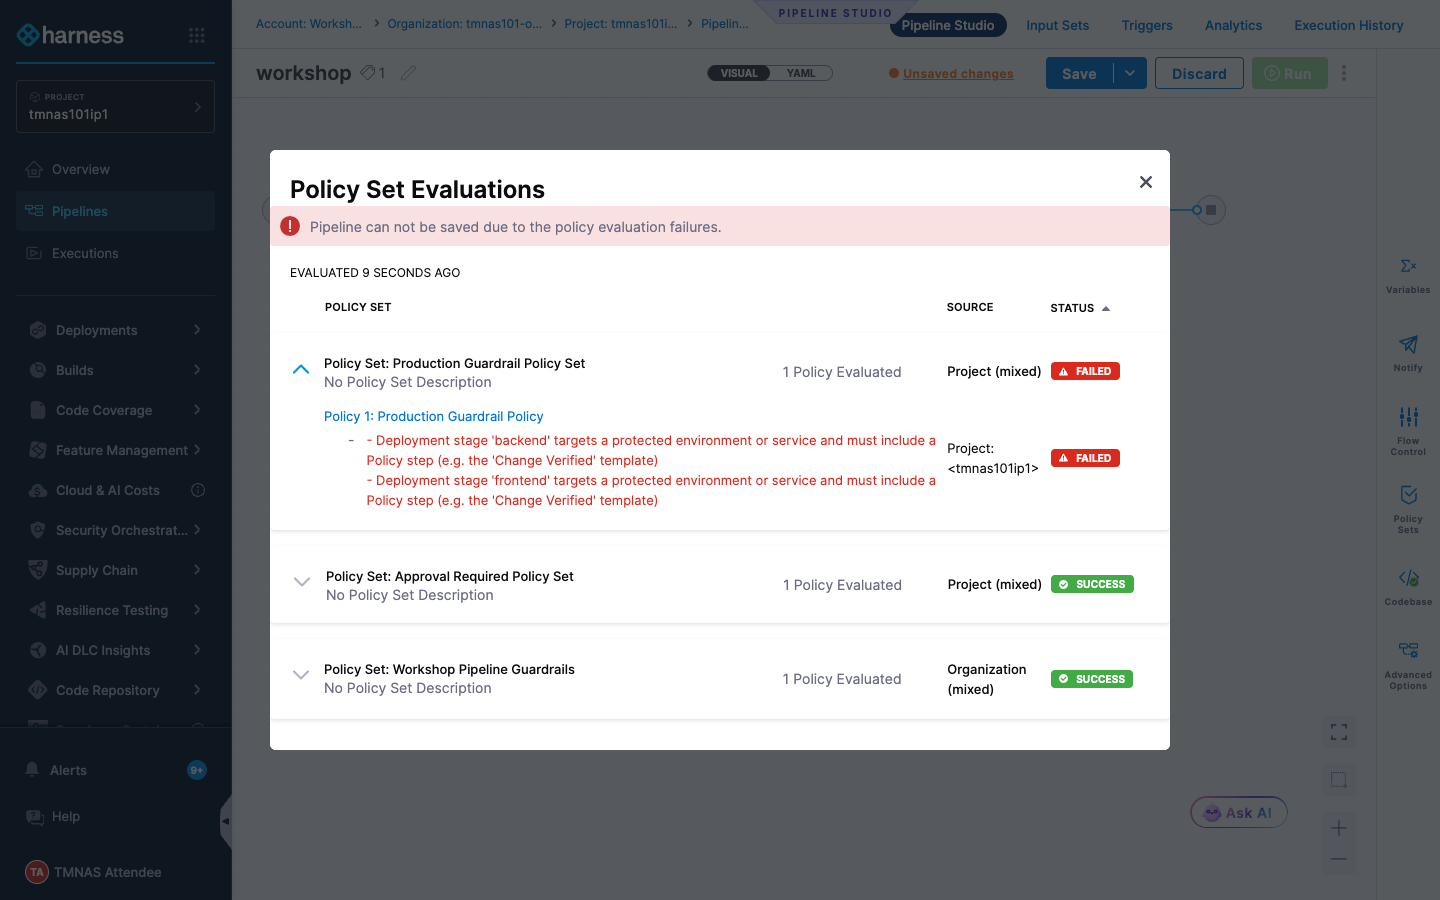
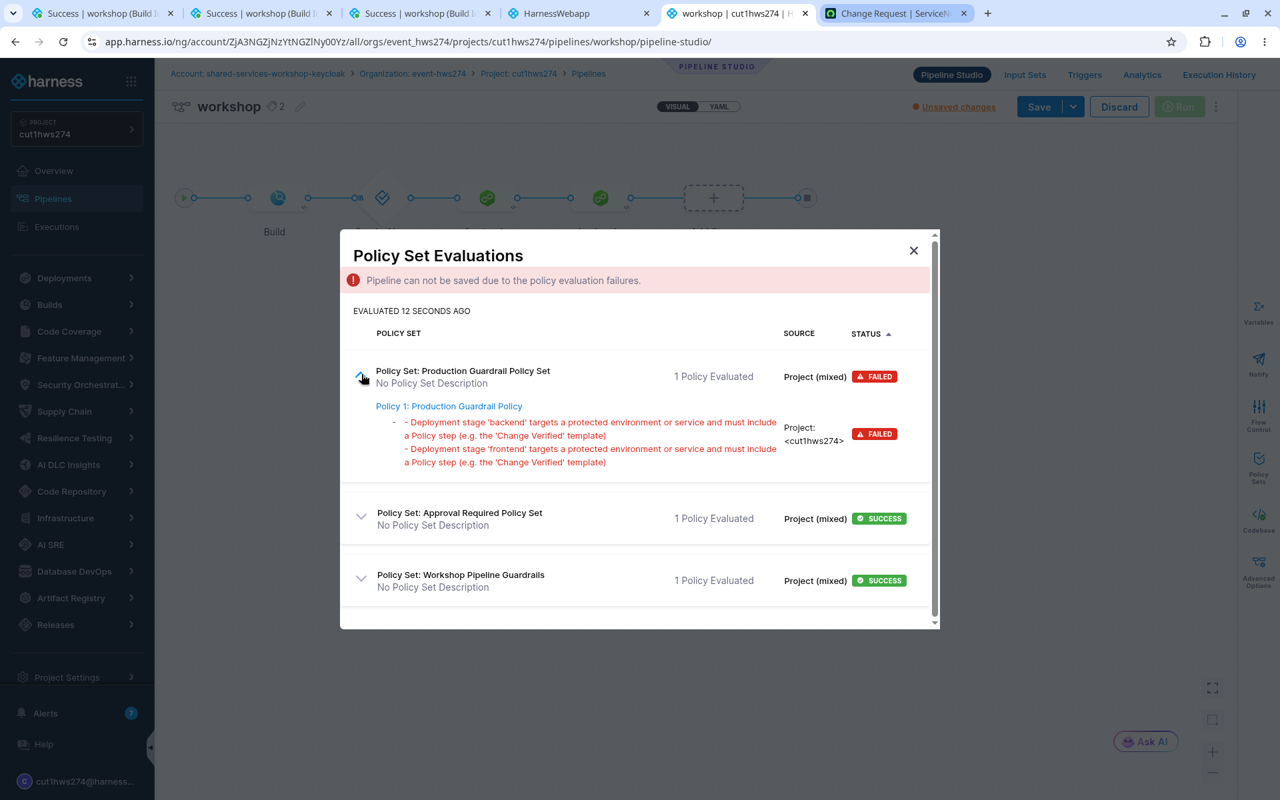
docs: replace TMNAS/outdated screenshots with fresh dry-run captures (#5)

diff --git a/labs/12-production-guardrails.md b/labs/12-production-guardrails.md
@@ -28,7 +28,7 @@ An approval stage at the front of the pipeline is a good start, but production i
 
 4. Open your pipeline in Pipeline Studio, make a small change and click **Save**. The save is blocked for **both** stages: frontend deploys to **prod**, and backend is a protected service
 
-![Production Guardrail](../images/lab8-guardrail.gif "Production Guardrail")
+![Production Guardrail](../images/lab8-guardrail.png "Production Guardrail")
 ![Production Guardrail violation](../images/lab8-violation.png "Production Guardrail violation")
 
 ---
@@ -55,7 +55,7 @@ The **Change Verified Policy** denies the step if the change number doesn't star
 | ---------- | ----------------------  | ----- |
 | Name | <pre>`Change Verified`</pre>||
 
-![Add Change Verified](../images/lab8-add-step.gif "Add Change Verified")
+![Add Change Verified](../images/lab8-add-step.png "Add Change Verified")
 ![frontend stage](../images/lab8-frontend-step.png "frontend stage")
 
 2. Open the **backend** stage, go to **Execution** and add the same template **before** the **Canary Deployment** step group

diff --git a/labs/13-automated-rollback.md b/labs/13-automated-rollback.md
@@ -59,7 +59,7 @@ Your project has been provisioned with a **Canary Smoke Test** step template.
 `stageStatus: All` means **Always execute this step**, so the change is closed even if an earlier rollback step fails. Switch back to **Visual**
 4. Apply the changes and **Save** the pipeline
 
-![Add Close Failed Ticket](../images/lab9-rollback.gif "Add Close Failed Ticket")
+![Add Close Failed Ticket](../images/lab9-rollback.png "Add Close Failed Ticket")
 ![Rollback steps](../images/lab9-rollback-studio.png "Rollback steps")
 
 ---
